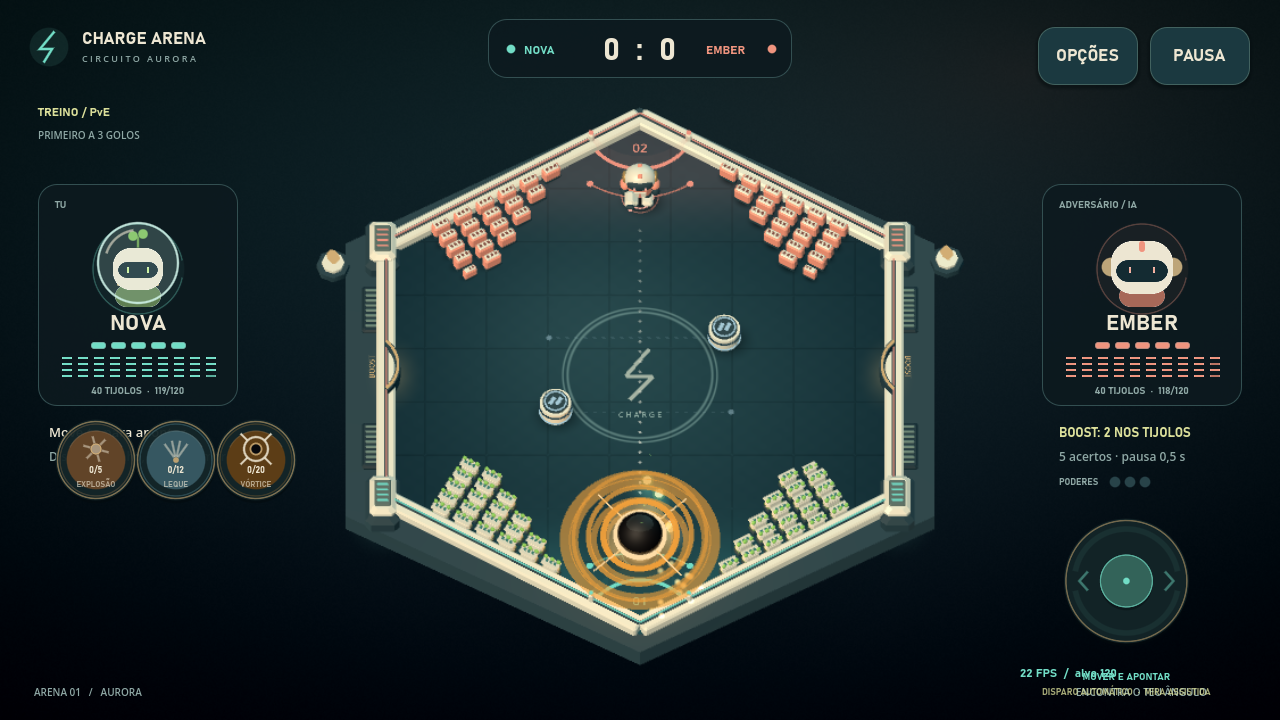
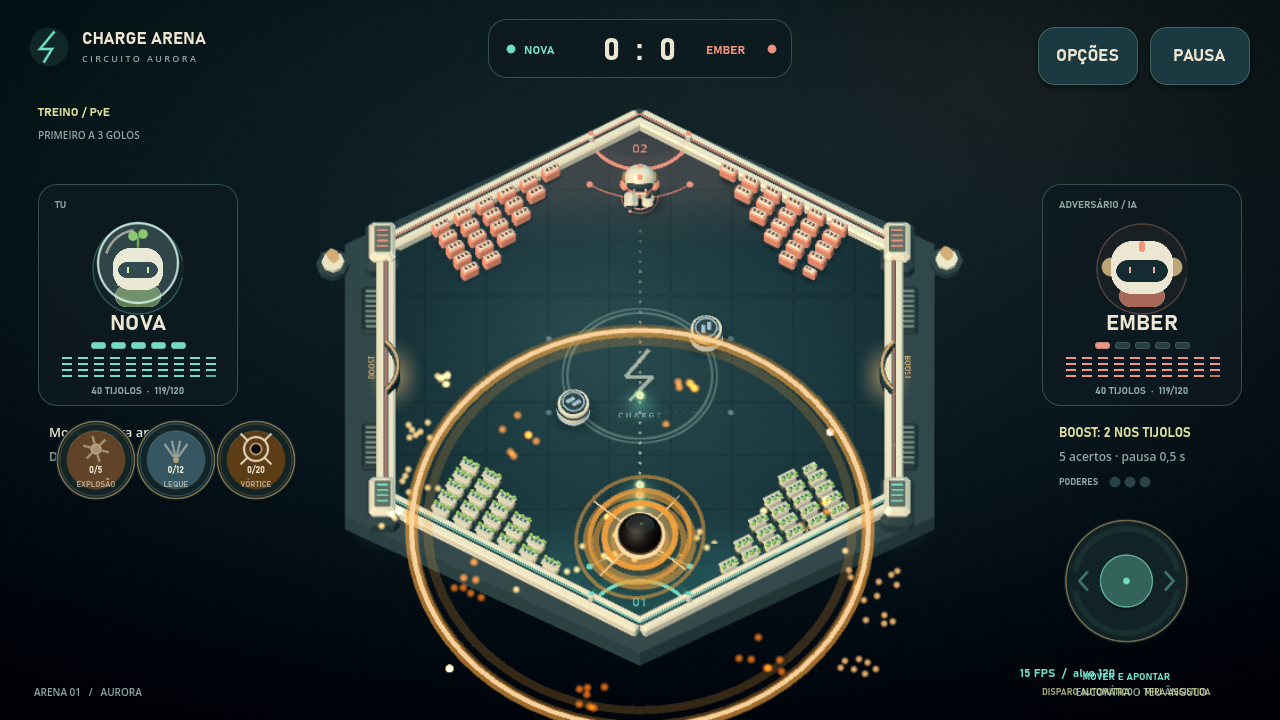
fix: mira que converge, canto que dispara a direito, e o vórtice como deve ser
A mira: o refinamento de direct_angle passava os argumentos de angle_difference
ao contrário. Como essa função devolve b - a, cada passo afastava-se do alvo em
vez de convergir, e a tabela que alimenta a mira assistida, a IA e a guia tinha
desvios até 33 graus. Com o sinal certo os 40 tijolos passam a ter ângulo
exato, erro máximo 0.

O canto: no extremo do arco o piloto virava 46 graus para fora, a disparar
contra a parede lateral. A viragem passa a saturar suavemente (tangente
hiperbólica) e nunca passa dos 26,5 graus. A curva tem de crescer sempre — a
primeira tentativa, uma parábola, invertia a viragem depois de dois terços do
arco e deixava a IA sem nada para resolver. Como os boosters laterais só se
apanhavam com aquele ângulo absurdo, cada um passa a ser um carril de três ao
longo da parede.

O joystick: a curva de resposta dava 2% de velocidade a um toque de 10%. Agora
há zona morta mínima e, passada ela, o piloto arranca logo a 34% e sobe quase a
direito; o curso do polegar encurtou de 58 px para 44 px.

A singularidade: três ondas anunciadas pelas regras, cada uma a varrer a arena
inteira de fora para dentro; 2,1 s de colapso; e a libertação passa a 26-44
projéteis num leque de 155 graus, que atravessam os obstáculos móveis. As ondas
descem do céu com cortina de partículas, e o leque leva uma lança de luz por
ronda, brasas por faixa, cúpula, onda de choque e eco.

Testes: test_hex_rules media o dano da IA pela vida final dos tijolos, que um
[…]

diff --git a/README.md b/README.md
@@ -45,7 +45,7 @@ Cada piloto leva **três poderes** para a partida: **dois comprados** na aba POD
 | Caça-Trovões | **Trovoada** | 2 segundos com 8 raios a cair ao acaso no campo do rival, 2 de dano cada. |
 | Jardineiro | **Florescer** | Cura 2 de vida em cada tijolo teu; os que já estão inteiros vão até 5 e ficam maiores, com anéis de luz e um +2 a subir. |
 | Corsário | **Pilhagem** | Troca a tua muralha com a do rival, tijolo a tijolo e em espelho: os números e as posições passam para o outro lado. |
-| Sentinela | **Singularidade** | O piloto vira epicentro: durante 1,4 s todas as bolas em campo, de ambos os lados, perdem o rumo e são arrastadas em câmara lenta até ao núcleo, sem tocar em nada pelo caminho. No colapso saem todas de uma vez num leque de 66°, à velocidade de bola turbinada, 2 de dano e sem ricochete — nunca menos de 6 nem mais de 14. |
+| Sentinela | **Singularidade** | Três ondas de choque caem do céu e varrem a arena inteira, uma atrás da outra: tudo o que apanham perde o rumo e é arrastado em câmara lenta até ao núcleo, sem tocar em nada pelo caminho. Ao fim de 2,1 s o núcleo abre-se e devolve 26 a 44 projéteis num leque de 155°, à velocidade de bola turbinada, 2 de dano, sem ricochete e a atravessar os obstáculos móveis. |
 
 **Loja e kit** (`scripts/powers.gd`, aba PODERES do menu). Cada poder escolhido mostra uma **demonstração animada** em ciclo — uma arena em miniatura onde se vê o efeito a acontecer: a bala a rebentar, o jorro da metralhadora, o feixe a comer tijolos, as muralhas a subir, a capa a devolver a bala como boost, a onda a limpar o campo, o vórtice a engolir os tiros e a cuspí-los em leque. A moeda são os **tijolos destruídos**, contados em qualquer modo e guardados em `user://powers.cfg` com as compras e o kit. Nesta versão de testes `UNLOCK_ALL_FOR_TESTS` entrega os nove já comprados com a carteira cheia; põe-no a `false` para voltar à progressão. Começas com Explosão e Rajada de Ar, que são de série e já vêm equipadas. Cada poder ocupa um slot de cada vez: equipá-lo no outro slot troca os dois.
 
